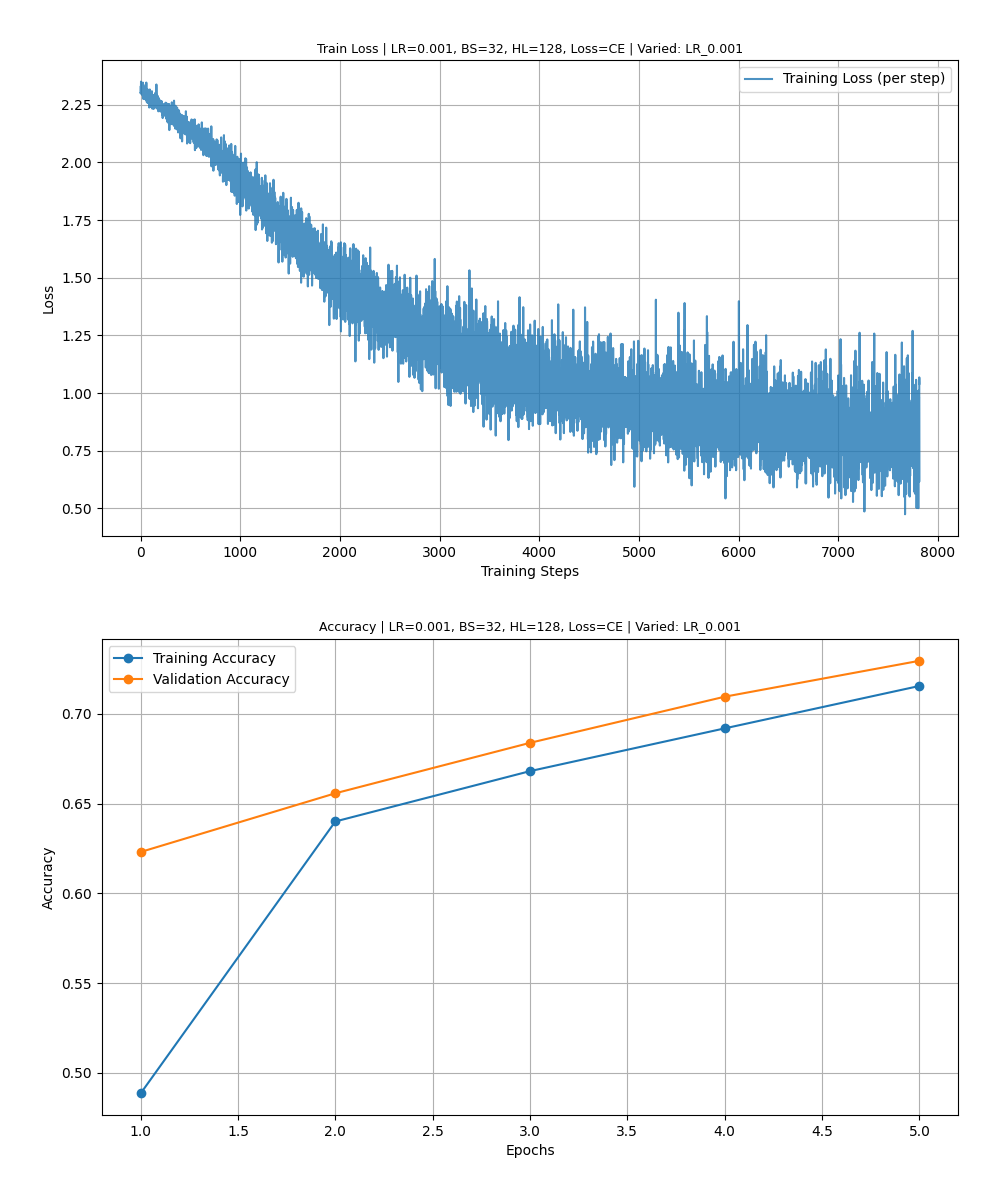
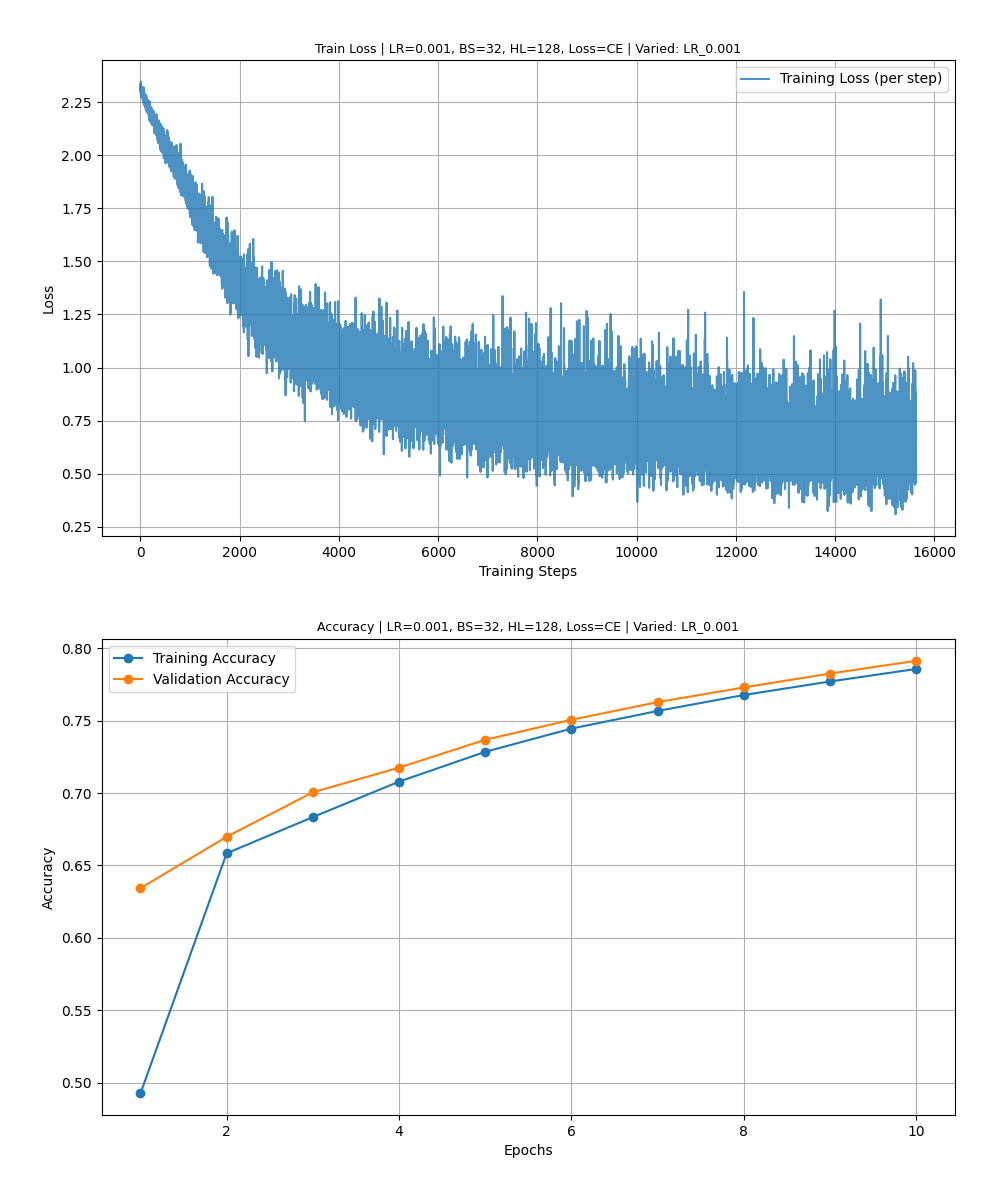
Increase EPOCHS_PER_CONFIG to 10

diff --git a/train.py b/train.py
@@ -213,7 +213,7 @@ loss_fns_to_test = ["CE", "MSE", "MAE"] # Test based on names
 # --- 6. Run Experiments ---
 
 print(f"Running experiments on device: {device}")
-EPOCHS_PER_CONFIG = 5 # Set number of epochs for all runs
+EPOCHS_PER_CONFIG = 10 # Set number of epochs for all runs
 
 # Store results (optional, mainly for programmatic analysis later)
 all_results = {} 
@@ -324,4 +324,4 @@ if "BS_Test" in all_results: print_summary("BS Test", all_results["BS_Test"], "b
 if "HL_Test" in all_results: print_summary("HL Test", all_results["HL_Test"], "hl")
 if "LossFn_Test" in all_results: print_summary("LossFn Test", all_results["LossFn_Test"], "loss_fn")
 
-print("\nExperiment finished. Check subdirectories inside 'plots_one_var_at_a_time' for detailed graphs.")
+print("\nFinished. 'plots_one_var_at_a_time' for graphs.")
